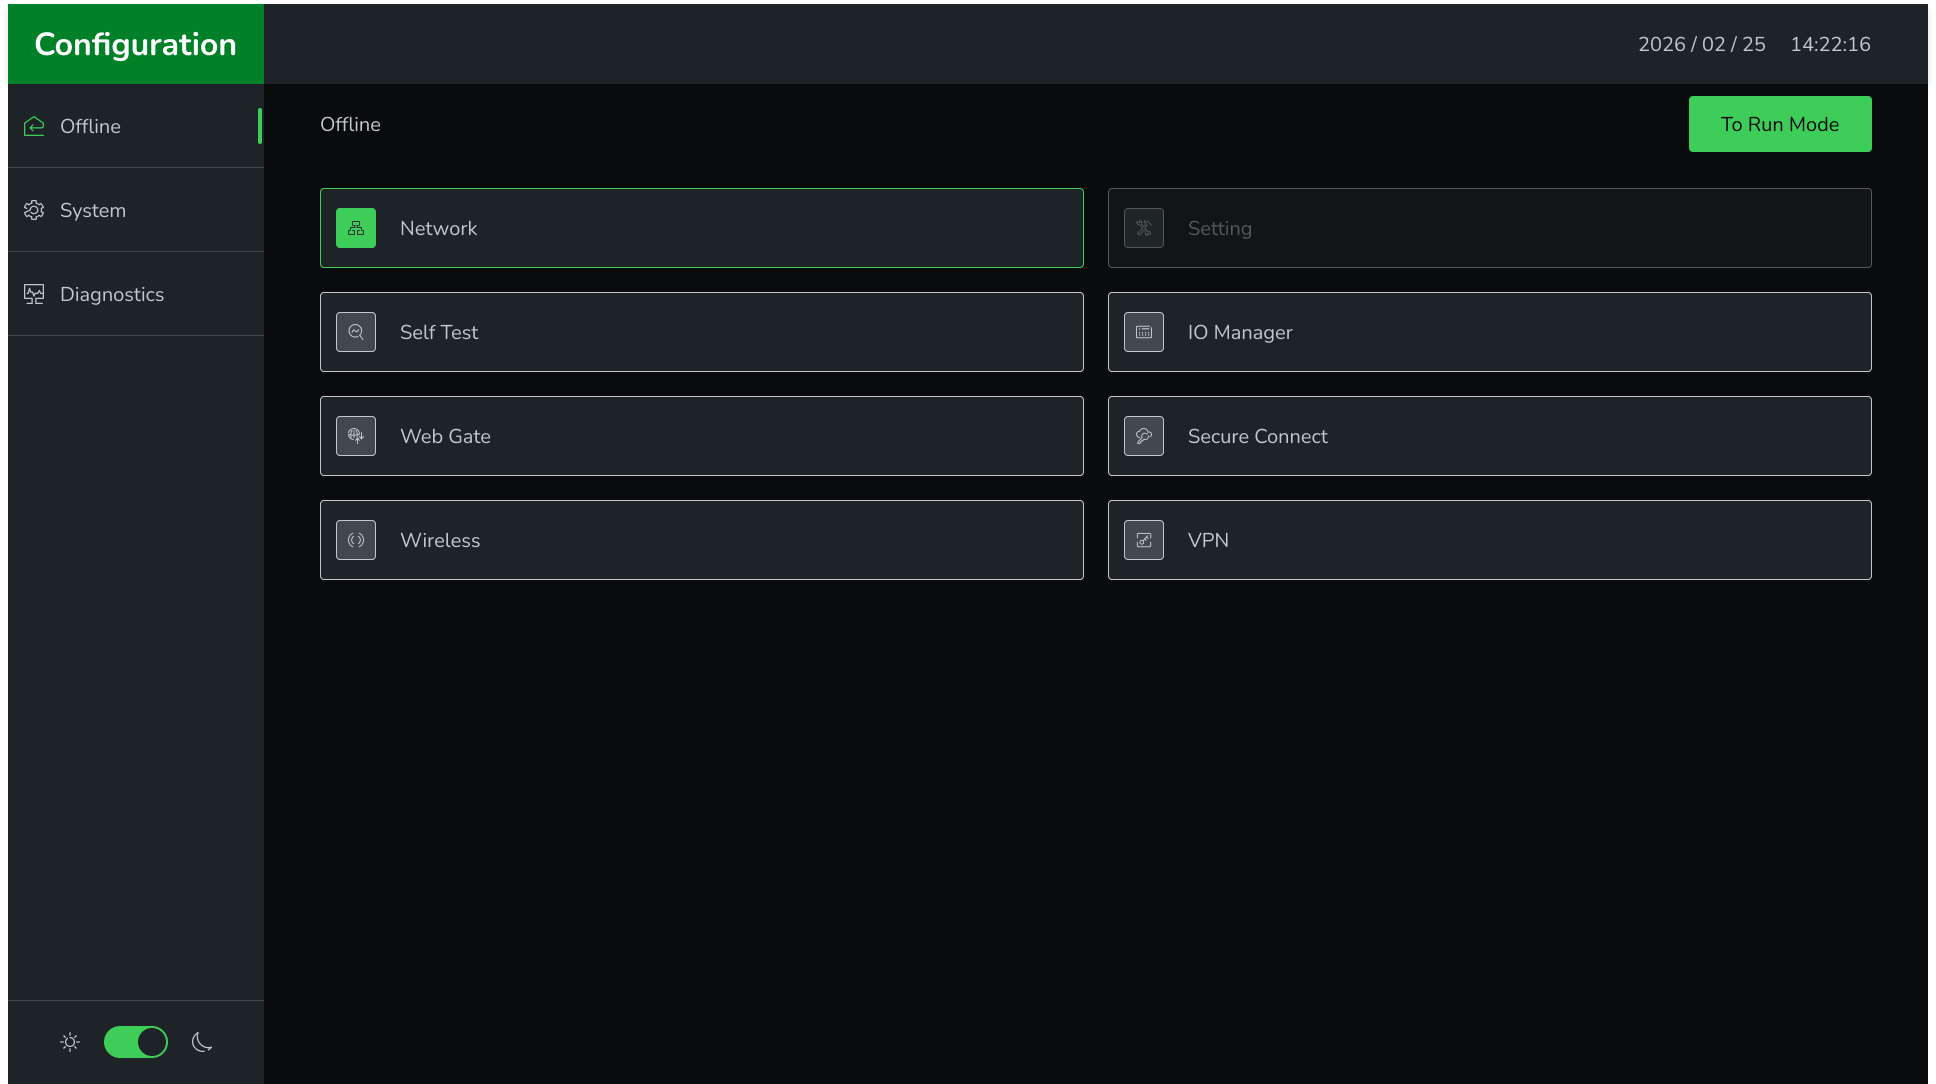
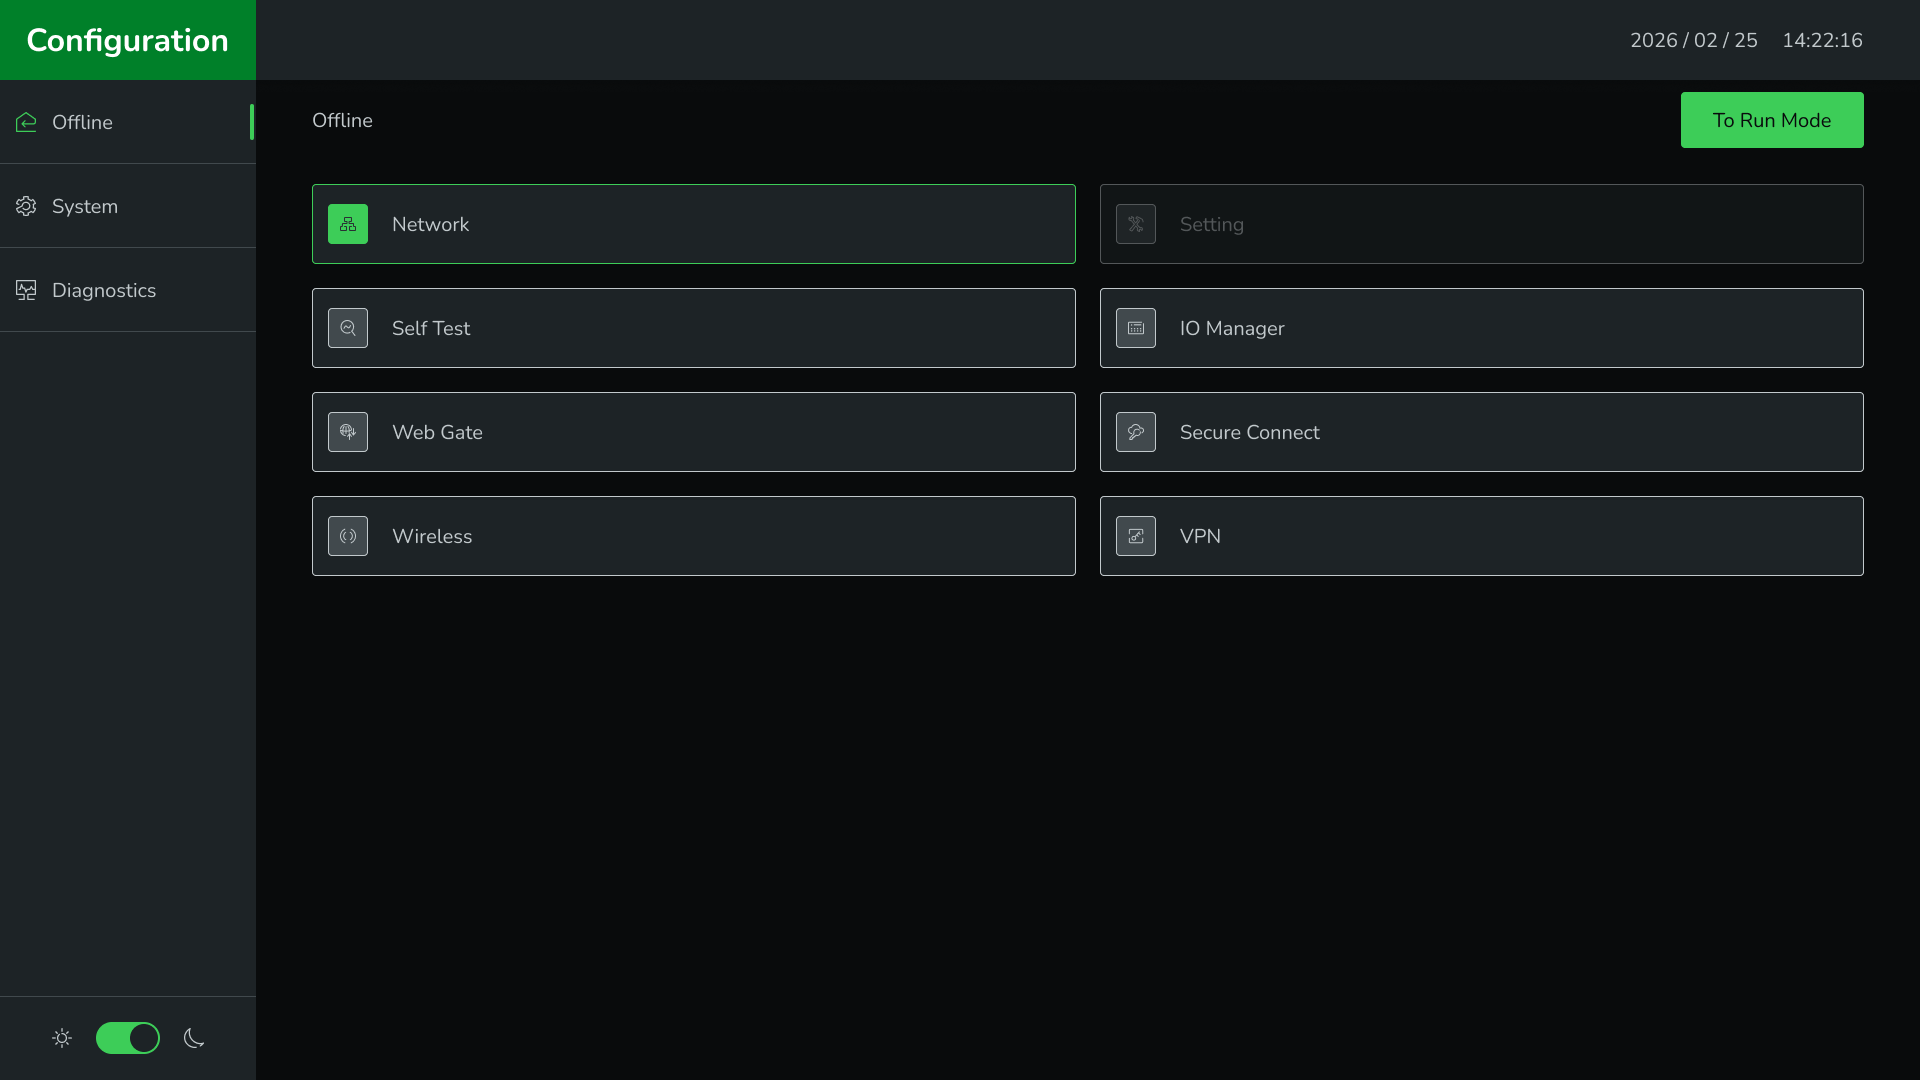
feat: fit device screen to gallery aspect and refresh Schneider images
- move the gallery aspect-ratio onto the screen so the image area matches
  the source ratio exactly (no letterbox bars) with the bezel drawn as a
  shadow
- replace the Schneider gallery with ten 1920x1080 screenshots and update
  the data references and alt text

Changed region(s): [[0.0, 0.0, 1.0, 1.0], [0.5625, 0.1833, 0.6562, 0.2139]]

diff --git a/components/ui/scroll-autoplay-device.css b/components/ui/scroll-autoplay-device.css
@@ -16,7 +16,6 @@
 .scroll-autoplay-device {
   position: relative;
   width: min(100%, var(--device-width, 640px));
-  aspect-ratio: var(--gallery-aspect, 4 / 3);
   padding: var(--space-2xs);
   border: 1px solid var(--border);
   border-radius: calc(var(--radius-lg) * 2);
@@ -29,22 +28,26 @@
     inset 0 1px 0 color-mix(in oklab, #fff 30%, transparent),
     0 12px 36px color-mix(in oklab, var(--foreground) 12%, transparent);
 }
-/* Screen bezel: fixed dark frame so images read as a touchscreen. */
+/* The screen owns the gallery aspect so the image area matches the source
+   ratio exactly (no letterbox bars); the bezel is a shadow so it does not
+   change the image-area dimensions. */
 .scroll-autoplay-device__screen {
   position: relative;
   width: 100%;
-  height: 100%;
-  padding: var(--space-sm);
+  aspect-ratio: var(--gallery-aspect, 4 / 3);
   overflow: hidden;
-  border: var(--space-2xs) solid #27272a;
   border-radius: calc(var(--radius-lg) * 2 - var(--space-2xs));
   background: #000;
-  box-shadow: 0 0 0 1px color-mix(in oklab, #000 60%, transparent);
+  box-shadow:
+    0 0 0 var(--space-2xs) #27272a,
+    0 0 0 calc(var(--space-2xs) + 1px)
+      color-mix(in oklab, #000 60%, transparent);
 }
 .scroll-autoplay-device__image {
   /* contain keeps the whole screenshot visible inside the dark bezel —
-     different source ratios (e.g. 1936x1084 vs 1936x1168) never crop. */
-  object-fit: contain;
+     different source ratios (e.g. 1936x1084 vs 1936x1168) never crop.
+     !important beats next/image fill's inline object-fit: cover. */
+  object-fit: contain !important;
 }
 .scroll-autoplay-device__fullscreen-trigger {
   position: absolute;
@@ -232,8 +235,6 @@
   position: relative;
   width: min(100%, 1440px);
   width: min(100%, 1440px, calc(68dvh * var(--gallery-ratio, 1.333333)));
-  max-height: 68dvh;
-  aspect-ratio: var(--gallery-aspect, 4 / 3);
   padding: var(--space-2xs);
   border: 1px solid var(--border);
   border-radius: calc(var(--radius-lg) * 2);
@@ -251,13 +252,14 @@
 .scroll-autoplay-fullscreen__screen {
   position: relative;
   width: 100%;
-  height: 100%;
-  padding: var(--space-sm);
+  aspect-ratio: var(--gallery-aspect, 4 / 3);
   overflow: hidden;
-  border: var(--space-2xs) solid #27272a;
   border-radius: calc(var(--radius-lg) * 2 - var(--space-2xs));
   background: #000;
-  box-shadow: 0 0 0 1px color-mix(in oklab, #000 60%, transparent);
+  box-shadow:
+    0 0 0 var(--space-2xs) #27272a,
+    0 0 0 calc(var(--space-2xs) + 1px)
+      color-mix(in oklab, #000 60%, transparent);
 }
 /* Joined strip: every frame sits side by side and the strip slides, so
    consecutive images stay adjacent during the transition (no dark gap). */
@@ -275,7 +277,7 @@
   pointer-events: none;
 }
 .scroll-autoplay-fullscreen__image {
-  object-fit: contain;
+  object-fit: contain !important;
   user-select: none;
   -webkit-user-drag: none;
 }

diff --git a/lib/projects.ts b/lib/projects.ts
@@ -231,31 +231,35 @@ export const projects: Project[] = [
         alt: 'Schneider Electric — network connected',
       },
       {
-        src: '/media/schneider-electric/03-setting-popup.png',
+        src: '/media/schneider-electric/03-setting.png',
         alt: 'Schneider Electric — settings dialog',
       },
       {
-        src: '/media/schneider-electric/04-offline-self-test-com2.png',
+        src: '/media/schneider-electric/04-setting-popup.png',
+        alt: 'Schneider Electric — settings popup',
+      },
+      {
+        src: '/media/schneider-electric/05-offline-self-test.png',
         alt: 'Schneider Electric — offline self-test COM2',
       },
       {
-        src: '/media/schneider-electric/05-io-equipment-config.png',
+        src: '/media/schneider-electric/06-io-driver-config.png',
+        alt: 'Schneider Electric — IO driver configuration',
+      },
+      {
+        src: '/media/schneider-electric/07-io-equipment-config.png',
         alt: 'Schneider Electric — IO equipment configuration',
       },
       {
-        src: '/media/schneider-electric/06-web-gate.png',
-        alt: 'Schneider Electric — web gate',
+        src: '/media/schneider-electric/08-wireless-4g.png',
+        alt: 'Schneider Electric — wireless 4G',
       },
       {
-        src: '/media/schneider-electric/07-secure-connect.png',
-        alt: 'Schneider Electric — secure connect',
+        src: '/media/schneider-electric/09-wireless-wifi-popup.png',
+        alt: 'Schneider Electric — wireless Wi-Fi link popup',
       },
       {
-        src: '/media/schneider-electric/08-wireless-wifi.png',
-        alt: 'Schneider Electric — wireless Wi-Fi',
-      },
-      {
-        src: '/media/schneider-electric/09-vpn-online.png',
+        src: '/media/schneider-electric/10-vpn-online.png',
         alt: 'Schneider Electric — VPN online',
       },
     ],
